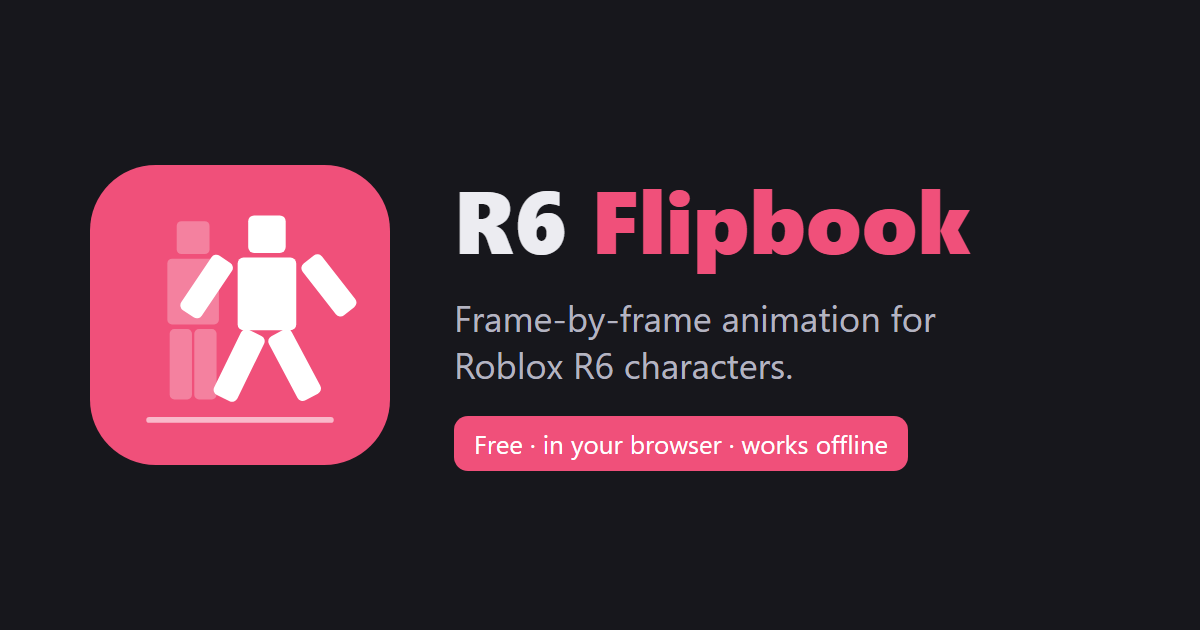
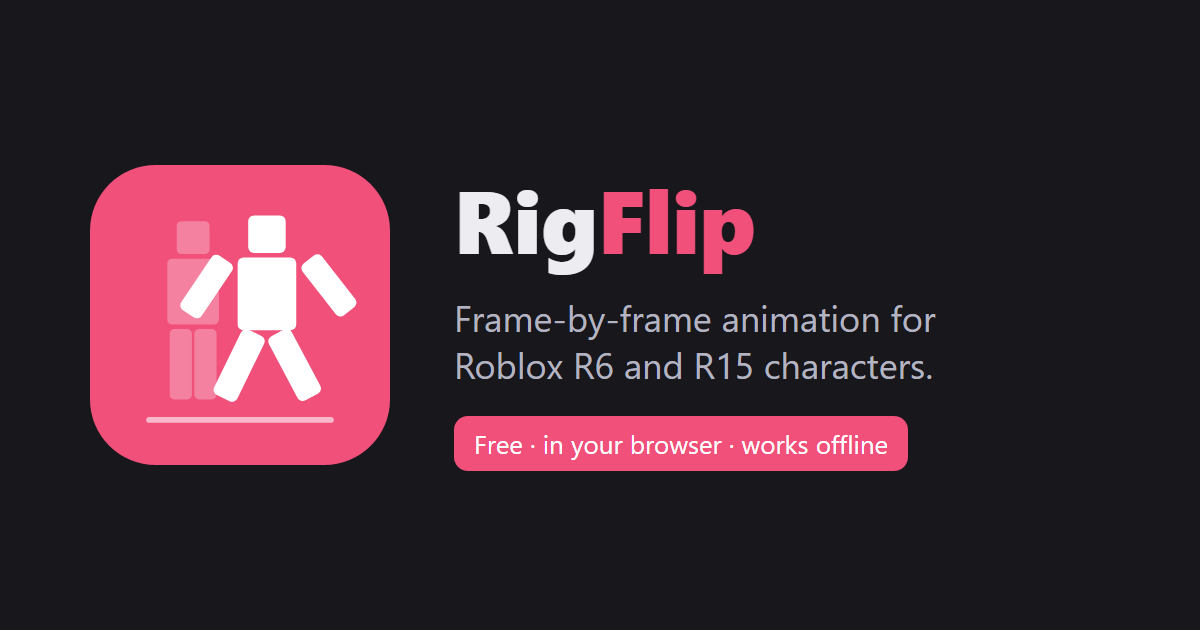
v1.4

Changed region(s): [[0.4317, 0.3016, 0.8017, 0.4524], [0.5242, 0.5429, 0.7708, 0.6032]]

diff --git a/index.html b/index.html
@@ -6,20 +6,20 @@
 <!-- Only this site's own files may run or be loaded; nothing is sent anywhere. -->
 <meta http-equiv="Content-Security-Policy" content="default-src 'self'; script-src 'self' 'sha256-xAtMlUiJe37621sVZN7FuCORWiODFlAt4m+/AXDdLiQ='; style-src 'self' 'unsafe-inline'; img-src 'self' data: blob:; media-src 'self' data: blob:; connect-src 'self'; worker-src 'self'; object-src 'none'; base-uri 'none'; form-action 'none'">
 <meta name="referrer" content="no-referrer">
-<title>R6 Flipbook</title>
-<meta name="description" content="Free frame-by-frame animation maker for Roblox R6 characters. Pose, flip through frames, export .rbxmx. Works offline.">
+<title>RigFlip</title>
+<meta name="description" content="RigFlip: free frame-by-frame animation maker for Roblox R6 and R15 characters. Pose, flip through frames, export .rbxmx. Works offline.">
 <meta name="theme-color" content="#f0507a">
 <link rel="manifest" href="manifest.webmanifest">
 <link rel="icon" href="icons/icon.svg" type="image/svg+xml">
 <link rel="apple-touch-icon" href="icons/icon-192.png">
-<meta property="og:title" content="R6 Flipbook">
-<meta property="og:description" content="Free frame-by-frame animation maker for Roblox R6 characters. Like FlipaClip, but for R6. Works in your browser, no download.">
+<meta property="og:title" content="RigFlip">
+<meta property="og:description" content="Free frame-by-frame animation maker for Roblox R6 and R15 characters. Like FlipaClip, but for Roblox. Works in your browser, no download.">
 <meta property="og:type" content="website">
 <meta property="og:url" content="https://animeyeeter123.github.io/r6-flipbook/">
 <meta property="og:image" content="https://animeyeeter123.github.io/r6-flipbook/icons/og.png">
 <meta name="twitter:card" content="summary_large_image">
 <!--
-  R6 Flipbook - a frame-by-frame animation tool for standard Roblox R6 characters (like FlipaClip, for R6).
+  RigFlip - a frame-by-frame animation tool for Roblox R6 and R15 characters (like FlipaClip).
   Not made by or affiliated with Roblox Corporation.
   A project holds one or more linked animations (e.g. Run start -> Run). Every frame is its own pose.
   Exports Roblox KeyframeSequences (.rbxmx) using the standard R6 Motor6D joints.
@@ -308,7 +308,7 @@
   <p id="exportWhere"></p>
   <div class="row"><button class="small" id="pickFolder">Choose export folder…</button></div>
   <h4>About</h4>
-  <p>R6 Flipbook is free and open source. Your projects stay in this browser on your own computer; nothing is uploaded. Not made by or affiliated with Roblox.</p>
+  <p>RigFlip is free and open source. Your projects stay in this browser on your own computer; nothing is uploaded. Not made by or affiliated with Roblox.</p>
 </div>
 
 <div id="markerPop" class="panel card">
@@ -365,7 +365,7 @@
   <button class="choice" id="exKeep"><b>Keep motion</b><span>Exactly as you animated it, including moving across the floor. Use it for moves that should travel inside the animation, like a cutscene or an emote that steps forward and back.</span></button>
   <p id="exWhere"></p>
   <h4 style="margin:16px 0 4px;font-size:14px">Or share it</h4>
-  <div class="row" style="color:var(--ink)"><button class="small accent" id="shGif" title="An animated picture that plays in Discord">GIF</button><button class="small accent" id="shVid" title="A short video (MP4 or WebM)">Video</button><button class="small" id="shLink" title="A link that opens this animation in R6 Flipbook">Copy share link</button>
+  <div class="row" style="color:var(--ink)"><button class="small accent" id="shGif" title="An animated picture that plays in Discord">GIF</button><button class="small accent" id="shVid" title="A short video (MP4 or WebM)">Video</button><button class="small" id="shLink" title="A link that opens this animation in RigFlip">Copy share link</button>
     <select id="shSize" title="Picture size"><option value="small">Small</option><option value="medium" selected>Medium</option><option value="large">Large (HD)</option></select></div>
   <p>GIFs and videos use the current camera view. Turn on Test for Roblox first if you want the character to stay in place.</p>
   <div class="actions"><button class="ghost" id="exCancel">Cancel</button></div>
@@ -400,7 +400,7 @@
 <!-- use it with AI -->
 <div class="modal" id="aiModal"><div class="card" style="width:min(560px, calc(100% - 32px))">
   <h2 id="aiTitle">Exported! Want an AI to add it to your game?</h2>
-  <p style="font-size:13px;color:var(--ink)">R6 Flipbook files work with AI helpers (ChatGPT, Claude and others). Copy this message, paste it into your AI chat, and attach the exported .rbxmx file(s). It already explains what the animation is and how it should be used.</p>
+  <p style="font-size:13px;color:var(--ink)">RigFlip files work with AI helpers (ChatGPT, Claude and others). Copy this message, paste it into your AI chat, and attach the exported .rbxmx file(s). It already explains what the animation is and how it should be used.</p>
   <textarea id="aiText" readonly spellcheck="false" style="width:100%;height:240px;margin-top:10px;font:12px/1.4 ui-monospace,Consolas,monospace;padding:8px;border:1px solid var(--line);border-radius:8px;background:var(--soft);color:var(--ink);resize:vertical"></textarea>
   <p>Always read what an AI suggests before using it, and keep a backup of your game.</p>
   <div class="actions"><button class="ghost" id="aiClose">Close</button><button class="primary" id="aiCopy">Copy message</button></div>
@@ -435,7 +435,7 @@
 
 <!-- home: all projects -->
 <div id="home"><div class="wrap">
-  <header><h1>R6 <span>Flipbook</span></h1><button class="small" id="homeSettings">Settings</button></header>
+  <header><h1>Rig<span>Flip</span></h1><button class="small" id="homeSettings">Settings</button></header>
   <div class="homeActions">
     <button class="bigBtn" id="newBtn">＋ New animation</button>
     <button class="ghost" id="homeOpen">Open file…</button>

diff --git a/app.js b/app.js
@@ -1194,7 +1194,7 @@ async function loadAvatar(name) {
       (d.notes?.length ? ' ' + d.notes.join(' ') : '') + (got.length ? '' : ' (They wear no classic clothing, so Roblox shows plain colours on R6.)');
     if (project) { rethumbAll(); refresh(); saveSoon(); }
   } catch (err) {
-    $('avStatus').textContent = /fetch/i.test(err.message) ? 'The helper isn\'t running. Open the app with "Start R6 Flipbook".' : err.message;
+    $('avStatus').textContent = /fetch/i.test(err.message) ? 'The helper isn\'t running. Open the app with "Start RigFlip".' : err.message;
   }
   $('avLoad').disabled = false;
 }
@@ -1683,7 +1683,7 @@ const TYPE_HOW = {
 function aiPrompt(list, center) {
   const L = [];
   const many = list.length > 1, told = new Set();
-  L.push(`I made ${many ? `these ${RIG.name} animations` : `this ${RIG.name} animation`} with R6 Flipbook and exported ${many ? 'them as .rbxmx files' : 'it as a .rbxmx file'} (Roblox KeyframeSequence). Please help me put ${many ? 'them' : 'it'} into my Roblox game.`);
+  L.push(`I made ${many ? `these ${RIG.name} animations` : `this ${RIG.name} animation`} with RigFlip and exported ${many ? 'them as .rbxmx files' : 'it as a .rbxmx file'} (Roblox KeyframeSequence). Please help me put ${many ? 'them' : 'it'} into my Roblox game.`);
   L.push('');
   L.push(`Facts about the file${many ? 's' : ''}:`);
   L.push('- Rig: ' + RIG.describe);
@@ -1775,7 +1775,7 @@ function shareCanvas(w, h) {
     const fs = Math.max(11, Math.round(h / 30));
     g.font = `600 ${fs}px system-ui, sans-serif`; g.textAlign = 'right'; g.textBaseline = 'bottom';
     g.fillStyle = isDark() ? 'rgba(255,255,255,.55)' : 'rgba(0,0,0,.4)';
-    g.fillText('R6 Flipbook', w - fs * 0.8, h - fs * 0.6);
+    g.fillText('RigFlip', w - fs * 0.8, h - fs * 0.6);
   } };
 }
 // --- a small GIF maker (GIF89a, 256 colours, loops forever)
@@ -2199,7 +2199,7 @@ $('pickFolder').onclick = chooseExportFolder;
 $('tourAgain').onclick = () => { closePanels(); if (project) startTour(); else { $('home').style.display = 'block'; toast('Open or start an animation first, then the tour runs'); settings.tourDone = false; saveSettings(); } };
 
 const TOUR = [
-  { el: null, text: '<b>Welcome to R6 Flipbook!</b> You make Roblox R6 and R15 animations frame by frame, like FlipaClip. This quick tour takes about 30 seconds.' },
+  { el: null, text: '<b>Welcome to RigFlip!</b> You make Roblox R6 and R15 animations frame by frame, like FlipaClip. This quick tour takes about 30 seconds.' },
   { el: '#view', text: '<b>Pose the character.</b> Click any body part. Drag the <b>arrows</b> to move it and the <b>rings</b> to turn it. Drag empty space to spin the camera.' },
   { el: '#add', text: '<b>Add frames.</b> Press <b>+</b> to add the next frame. It starts as a copy, so you only change what moves.' },
   { el: '#draw', text: '<b>Draw.</b> Sketch a quick stick figure, or trace a person from a video. Click it any time and it explains how.' },

diff --git a/sw.js b/sw.js
@@ -1,6 +1,6 @@
 // Offline support: keeps a copy of the app's own files so it opens without internet.
 // Bump VERSION whenever any file changes, so people get the update the next time they open the app online.
-const VERSION = 'r6flipbook-v3.4.1';
+const VERSION = 'r6flipbook-v3.5.0';
 const FILES = ['./', 'index.html', 'app.js', 'manifest.webmanifest', 'vendor/three.module.js', 'vendor/OrbitControls.js',
                'icons/icon.svg', 'icons/icon-192.png', 'icons/icon-512.png'];
 

diff --git a/launcher/RigFlip.cs b/launcher/RigFlip.cs
@@ -1,8 +1,8 @@
-// R6 Flipbook launcher for Windows.
-// Opens the R6 Flipbook website in its own app window using Microsoft Edge, which is built into Windows 10 and 11.
+// RigFlip launcher for Windows.
+// Opens the RigFlip website in its own app window using Microsoft Edge, which is built into Windows 10 and 11.
 // For safety it can only ever open this one address: it ignores anything passed to it, reads no files,
 // downloads nothing, needs no admin rights and changes no settings.
-// Build: C:\Windows\Microsoft.NET\Framework64\v4.0.30319\csc.exe /target:winexe /win32icon:R6Flipbook.ico /out:R6Flipbook.exe R6Flipbook.cs
+// Build: C:\Windows\Microsoft.NET\Framework64\v4.0.30319\csc.exe /target:winexe /win32icon:RigFlip.ico /out:RigFlip.exe RigFlip.cs
 using System;
 using System.Diagnostics;
 using System.IO;
@@ -10,12 +10,12 @@ using System.Reflection;
 using System.Windows.Forms;
 using Microsoft.Win32;
 
-[assembly: AssemblyTitle("R6 Flipbook")]
-[assembly: AssemblyProduct("R6 Flipbook")]
-[assembly: AssemblyDescription("Opens the R6 Flipbook animation maker in its own window.")]
+[assembly: AssemblyTitle("RigFlip")]
+[assembly: AssemblyProduct("RigFlip")]
+[assembly: AssemblyDescription("Opens the RigFlip animation maker in its own window.")]
 [assembly: AssemblyCopyright("Copyright (c) 2026 animeyeeter123. MIT licence.")]
-[assembly: AssemblyVersion("1.0.0.0")]
-[assembly: AssemblyFileVersion("1.0.0.0")]
+[assembly: AssemblyVersion("1.1.0.0")]
+[assembly: AssemblyFileVersion("1.1.0.0")]
 
 static class Program
 {
@@ -27,8 +27,8 @@ static class Program
         string edge = FindEdge();
         if (edge == null)
         {
-            MessageBox.Show("R6 Flipbook needs Microsoft Edge, which comes with Windows.\n\nYou can also open it in any browser:\n" + AppUrl,
-                            "R6 Flipbook", MessageBoxButtons.OK, MessageBoxIcon.Information);
+            MessageBox.Show("RigFlip needs Microsoft Edge, which comes with Windows.\n\nYou can also open it in any browser:\n" + AppUrl,
+                            "RigFlip", MessageBoxButtons.OK, MessageBoxIcon.Information);
             return;
         }
         var start = new ProcessStartInfo(edge, "--app=" + AppUrl);

diff --git a/README.md b/README.md
@@ -1,4 +1,4 @@
-# R6 Flipbook
+# RigFlip
 
 A free, frame-by-frame animation maker for Roblox **R6** and **R15** characters, in the style of FlipaClip.
 
@@ -11,18 +11,18 @@ A free, frame-by-frame animation maker for Roblox **R6** and **R15** characters,
 - **Test for Roblox** shows the animation the way the game plays it.
 - Exports Roblox `KeyframeSequence` files (`.rbxmx`) that you can import into Roblox Studio.
 - Works offline. In Chrome or Edge, click **Install** in the address bar to get it as an app.
-- Share your animation as a **GIF**, a **video**, or a **link** that opens it in R6 Flipbook.
+- Share your animation as a **GIF**, a **video**, or a **link** that opens it in RigFlip.
 
 ## Install it as an app
 
-**Easiest (no download):** open the link above in Chrome or Edge and click the **Install** icon at the right end of the address bar. You get R6 Flipbook in its own window, in your Start menu, working offline, and it updates itself.
+**Easiest (no download):** open the link above in Chrome or Edge and click the **Install** icon at the right end of the address bar. You get RigFlip in its own window, in your Start menu, working offline, and it updates itself.
 
-**Windows download:** get `R6Flipbook.exe` from [Releases](https://github.com/animeyeeter123/r6-flipbook/releases). It is a tiny (18 KB) launcher that opens R6 Flipbook in its own window using Microsoft Edge, which comes with Windows. It can only open this one website, and its full source code is in the `launcher` folder.
+**Windows download:** get `RigFlip.exe` from [Releases](https://github.com/animeyeeter123/r6-flipbook/releases). It is a tiny (18 KB) launcher that opens RigFlip in its own window using Microsoft Edge, which comes with Windows. It can only open this one website, and its full source code is in the `launcher` folder.
 Windows may say *"Windows protected your PC"* because the file isn't paid-signed; click **More info → Run anyway**. Each release lists the file's SHA-256 fingerprint, so you can check you have the real one.
 
 ## Works with AI
 
-After you export, R6 Flipbook shows a ready-made message for your AI helper (ChatGPT, Claude and others). Copy it, paste it into the chat and attach the `.rbxmx` file(s). It tells the AI what kind of animation it is (run, idle, jump, combat…), whether it loops, its markers (like `Hit`) and their timing, linked parts (like *Run start → Run*), and any extra arms or props, so the AI can write the script that plays it in your game. You can also get the message any time from **Tools → Get an AI prompt**.
+After you export, RigFlip shows a ready-made message for your AI helper (ChatGPT, Claude and others). Copy it, paste it into the chat and attach the `.rbxmx` file(s). It tells the AI what kind of animation it is (run, idle, jump, combat…), whether it loops, its markers (like `Hit`) and their timing, linked parts (like *Run start → Run*), and any extra arms or props, so the AI can write the script that plays it in your game. You can also get the message any time from **Tools → Get an AI prompt**.
 
 Always read what an AI suggests before using it, and keep a backup of your game.
 
@@ -33,9 +33,12 @@ Everything stays on your own computer. Projects are saved in your browser; nothi
 ## Credits
 
 - 3D rendering: [three.js](https://threejs.org) (MIT licence, see `vendor/THREE-LICENSE.txt`).
-- R6 Flipbook is not made by, endorsed by or affiliated with Roblox Corporation. "Roblox" is a trademark of Roblox Corporation.
+- RigFlip is not made by, endorsed by or affiliated with Roblox Corporation. "Roblox" is a trademark of Roblox Corporation.
 
 ## Updates
+
+**v1.4**
+- Renamed from R6 Flipbook to RigFlip (your saved work carries over)
 
 **v1.3**
 - Added: trace poses from a video (Draw → Trace from video)
